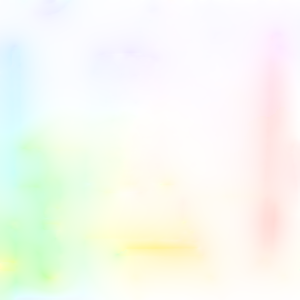
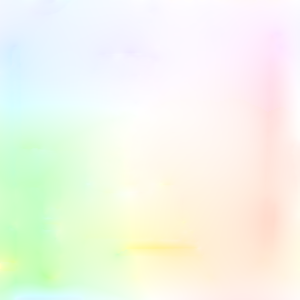
README update with todo changed (visualization better)

diff --git a/README.md b/README.md
@@ -13,7 +13,7 @@ We have been working at the moment with `data/nasa` folder.
 *Image used for flow computation* | *Image used for flow computation*
 
 <div align="center">
-    <img src="data/data/nasa/horn_output.png" alt="Optical Flow computed with Horn method">
+    <img src="data/data/nasa/horn_output_2.png" alt="Optical Flow computed with Horn method">
     <p><em>Optical Flow computed with Horn method</em></p>
 </div>
 
